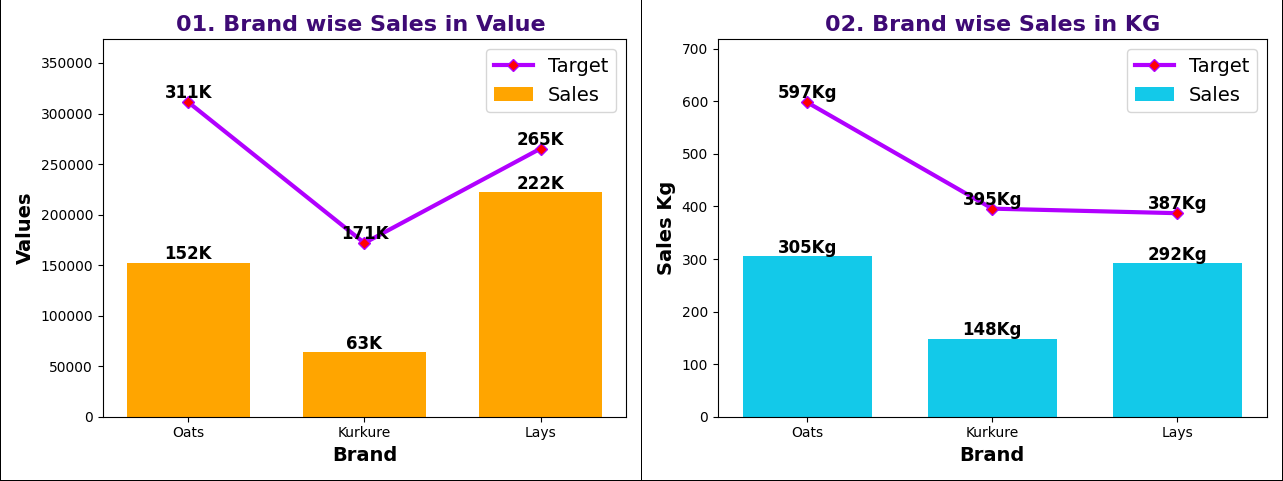
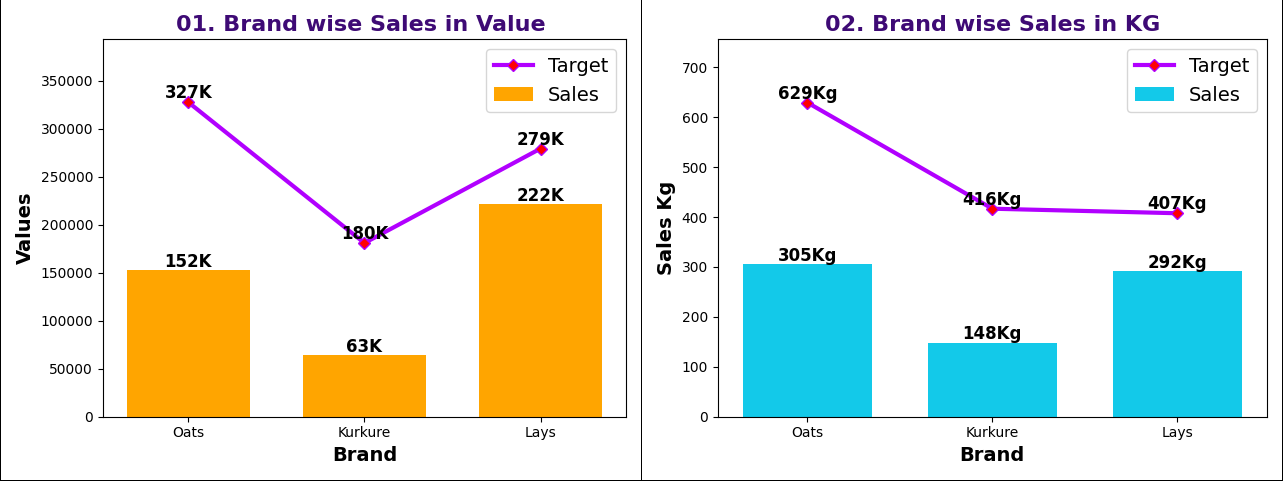
Update data validation

diff --git a/Functions/kpi.py b/Functions/kpi.py
@@ -22,10 +22,12 @@ def currency_converter(num):
         number = num
     return number
 
+
 date = datetime.datetime.now()
 current_day = int(date.strftime("%d")) - 1
 days_in_month = max(monthrange(int(date.strftime("%Y")), int(date.strftime("%m"))))
-
+print('Current day = ', current_day)
+print('Days in month', days_in_month)
 # # -------- Total value and Weight Target  -------------------------------------
 # # -----------------------------------------------------------------------------
 target_df = pd.read_sql_query(""" select  isnull(sum(targetvalue), 0) as TargetVal,
@@ -55,7 +57,6 @@ return_df = pd.read_sql_query(""" select isnull(sum(Quantity*InvoicePrice),0) as
 total_val_return = sum(return_df.ReturnVal)
 total_weight_return = sum(return_df.ReturnKg)
 
-
 profile_df = pd.read_sql_query("""
             select t1.SRID,t1.SRName,t2.SRDESIGNATION, t1.ReportingBoss, t1.Brand, 
             t1.BrandName,t1.TargetVal, t1.TargetKG, t2.SalesVal,T2.SalesKg, t1.TargetQty,t2.SalesQty from
@@ -81,7 +82,7 @@ profile_df = pd.read_sql_query("""
             SUM(Quantity) as SalesQty, sum(Quantity*InvoicePrice) as SalesVal,  SUM(Quantity*Weight)/1000 as SalesKg from
             (select item.*,SRID from
             (select * from SalesInvoices where InvoiceDate between  convert(varchar(10),DATEADD(mm, DATEDIFF(mm, 0, GETDATE()), 0),126)
-            and convert(varchar(10),DATEADD(D,0,GETDATE()-1),126)) as Sales
+            and convert(varchar(10),DATEADD(D,0,GETDATE()-2),126)) as Sales
             inner join
             (
             select * from SalesInvoiceItem) as item
@@ -112,14 +113,13 @@ target_kg_list = profile_df.TargetKG.tolist()
 
 branch_mtd_target_list = []
 for i in range(len(target_list)):
-    d = (target_list[i]/days_in_month)*current_day
+    d = (target_list[i] / days_in_month) * current_day
     branch_mtd_target_list.append(d)
 
 branch_mtd_target_kg_list = []
 for i in range(len(target_list)):
-    kg = (target_kg_list[i]/days_in_month)*current_day
+    kg = (target_kg_list[i] / days_in_month) * current_day
     branch_mtd_target_kg_list.append(kg)
-
 
 Sales_Val_list = profile_df['SalesVal'].tolist()
 sales_kg_list = profile_df['SalesKg'].tolist()
@@ -131,16 +131,17 @@ mtd_avg_sales = sales_val / int(current_day)
 each_day_target = total_val_target / int(days_in_month)
 each_day_sales = sales_val / int(current_day)
 
-trend_percent = round((sales_val * 100) / total_val_target, 2)
+
 trend_val = round((each_day_sales * days_in_month), 2)
 
 # # ----------- Trend Weight ---------------------------------
 
-w_trend_per = round((sales_kg * 100 / total_weight_target), 2)
+# w_trend_per = round((sales_kg * days_in_month * 100) / (total_weight_target * current_day), 2)
 # print('Weight trend percent = ', w_trend_per)
 
 each_day_sales_kg = sales_kg / int(current_day)
-trend_val_kg = round((each_day_sales_kg * days_in_month), 2)
+trend_w_kg = round((each_day_sales_kg * days_in_month), 2)
+w_trend_per = round((trend_w_kg/total_weight_target)*100, 2)
 # print('Trend in Kg = ', trend_val_kg)
 
 # # -------- Invoice count ----------------------------------
@@ -156,15 +157,18 @@ w_drop_size = int(sales_kg / total_invoice)
 
 # # ------------------- Strike Rate ---------------------------
 total_cust_df = pd.read_sql_query(""" select count(customerid) as TotalCustomer from Customers
-where routeid in (select distinct routeid from SalesInvoices where InvoiceDate between  convert(varchar(10),DATEADD(mm, DATEDIFF(mm, 0, GETDATE()), 0),126)
-and convert(varchar(10),DATEADD(D,0,GETDATE()-1),126) and srid=22) """, conn)
+                where routeid in (select distinct routeid from SalesInvoices where InvoiceDate between  convert(varchar(10),DATEADD(mm, DATEDIFF(mm, 0, GETDATE()), 0),126)
+                and convert(varchar(10),DATEADD(D,0,GETDATE()-1),126) and srid=22) """, conn)
 
 total_cust = int(total_cust_df.TotalCustomer)
 
-effective_cust_df = pd.read_sql_query(""" select count(distinct CustomerID) as EffectiveCust 
-            from SalesInvoices 
-            where srid=22 and InvoiceDate between  convert(varchar(10),DATEADD(mm, DATEDIFF(mm, 0, GETDATE()), 0),126)
-            and convert(varchar(10),DATEADD(D,0,GETDATE()-1),126) """, conn)
+effective_cust_df = pd.read_sql_query(""" select count(distinct CustomerID) as EffectiveCust  from 
+                (select * from SalesInvoices
+                where srid=22 and InvoiceDate between  convert(varchar(10),DATEADD(mm, DATEDIFF(mm, 0, GETDATE()), 0),126)
+                and convert(varchar(10),DATEADD(D,0,GETDATE()-1),126)) as sale
+                inner  join 
+                (select * from SalesInvoiceItem) as item
+                on sale.invoiceid=item.invoiceid """, conn)
 
 effective_cust = int(effective_cust_df.EffectiveCust)
 
@@ -239,7 +243,7 @@ day_visit_rate_df = pd.read_sql_query(""" select right(left(left(OrderDate, 12),
                     SalesOrderItem
                     on SalesOrders.OrderID=SalesOrderItem.OrderID
                     where OrderDate between  convert(varchar(10),DATEADD(mm, DATEDIFF(mm, 0, GETDATE()), 0),126)
-                    and convert(varchar(10),DATEADD(D,0,GETDATE()-1),126) and srid=22)
+                    and convert(varchar(10),DATEADD(D,0,GETDATE()),126) and srid=22)
                     as SalesInvoices
                     on Customers.routeid = SalesInvoices.routeid
                     group by right(left(left(OrderDate, 12),6),2)
@@ -270,8 +274,7 @@ sale.InvoiceID) as LPC from
 lpc_days = day_wise_lpc.Date.tolist()
 lpc_rate = day_wise_lpc.LPC.tolist()
 lpc = round(sum(day_wise_lpc.LPC) / len(lpc_rate), 2)
-print('lpc rate ',len(lpc_rate) )
-
+print('lpc rate ', len(lpc_rate))
 
 # # # -------- Cumulative Target  and sales --------------------------------------
 # # # ----------------------------------------------------------------------------

diff --git a/Functions/dashboard.py b/Functions/dashboard.py
@@ -7,7 +7,7 @@ import pytz
 
 # # --------- Import local files -----------------
 import Functions.kpi as kpi
-
+import math
 def generate_dashboard():
     date = datetime.today()
     day = str(date.day) + '/' + str(date.month) + '/' + str(date.year)
@@ -77,19 +77,20 @@ def generate_dashboard():
     sales = kpi.currency_converter(kpi.sales_val)
     achiv = round((kpi.sales_val / mtd_target) * 100, 2)
     trendval = kpi.currency_converter(int(kpi.trend_val))
+    trend_percent = round((kpi.trend_val * 100)/kpi.total_val_target, 2)
 
     targetL.text((65, 400), str(target), (255, 255, 255), font=Viga)
     salesL.text((330, 400), str(sales), (255, 255, 255), font=Viga)
     achivL.text((580, 400), str(achiv) + "%", (255, 255, 255), font=Viga)
     trendVal.text((840, 400), str(trendval), (255, 255, 255), font=Viga)
-    trendPer.text((1090, 400), str(kpi.trend_percent) + "%", (255, 255, 255), font=Viga)
+    trendPer.text((1090, 400), str(trend_percent) + "%", (255, 255, 255), font=Viga)
 
     val_return_p = round((kpi.total_val_return / kpi.sales_val) * 100, 2)
 
     visitV.text((70, 550), str(kpi.visit_rate) + '%', (255, 255, 255), font=Viga)
     strike.text((320, 550), str(kpi.strike_rate) + '%', (255, 255, 255), font=Viga)
     lpc.text((595, 550), str(kpi.lpc), (255, 255, 255), font=Viga)
-    drop_size_val.text((860, 550), str(kpi.currency_converter(kpi.val_drop_size)), (255, 255, 255), font=Viga)
+    drop_size_val.text((860, 550), str( round((kpi.val_drop_size/1000), 2)) + 'K', (255, 255, 255), font=Viga)
     returnL.text((1090, 550), str(val_return_p) + "%", (255, 255, 255), font=Viga)
 
     # # --------- Weight wise KPI -------------------------------------------
@@ -101,7 +102,7 @@ def generate_dashboard():
     wTargetL.text((65, 790), str(mtd_weight_target) + ' Kg', (255, 255, 255), font=Viga)
     wSalesL.text((320, 790), str(WSalesKg) + ' Kg', (255, 255, 255), font=Viga)
     achivL.text((590, 790), str(achivKg) + " %", (255, 255, 255), font=Viga)
-    trendW.text((840, 790), str(int(kpi.trend_val_kg)) + ' Kg', (255, 255, 255), font=Viga)
+    trendW.text((840, 790), str(int(kpi.trend_w_kg)) + ' Kg', (255, 255, 255), font=Viga)
     trendValW.text((1090, 790), str(kpi.w_trend_per) + " %", (255, 255, 255), font=Viga)
 
     visitW.text((70, 960), str(kpi.visit_rate) + " %", (255, 255, 255), font=Viga)

diff --git a/setup.py b/setup.py
@@ -78,9 +78,9 @@ imageSize.save(dirpath + "./Images/day_wise_drop_size_val.png")
 
 msgRoot = MIMEMultipart('related')
 me = 'erp-bi.service@transcombd.com'
-to = ['rejaul.islam@transcombd.com', '']
+to = ['', ''] ## al.sahriar@transcombd.com
 cc = ['', '']
-bcc = ['', '']
+bcc = ['rejaul.islam@transcombd.com', '']
 
 # to = ['biswas@transcombd.com']
 # cc = ['yakub@transcombd.com', 'tawhid@transcombd.com', 'zubair@transcombd.com']
